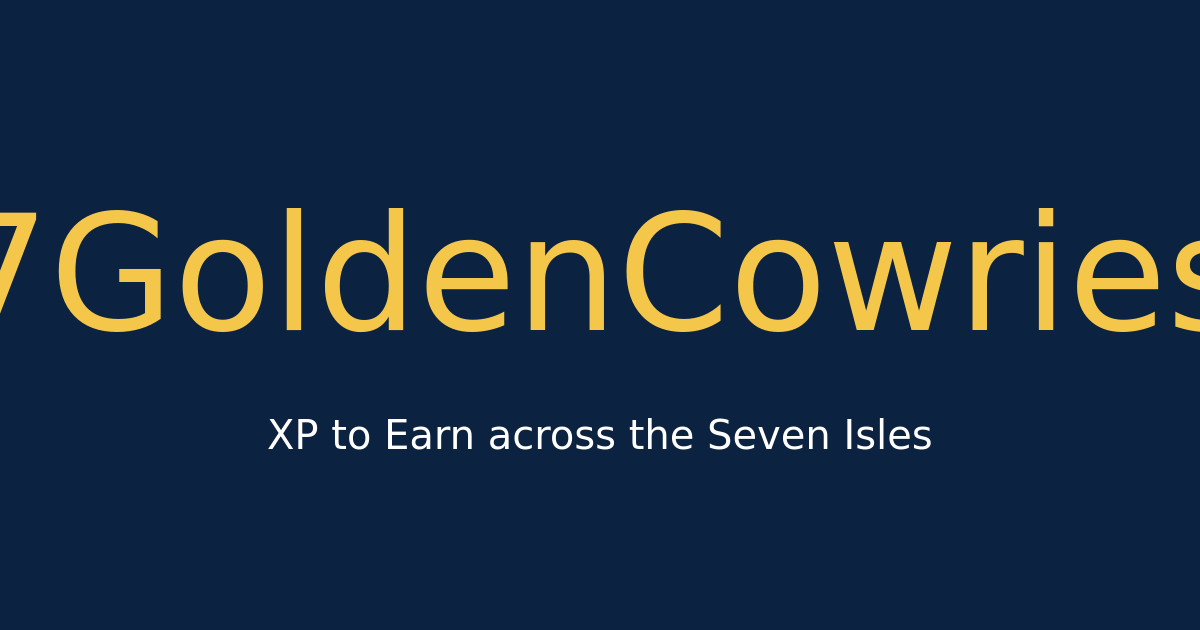
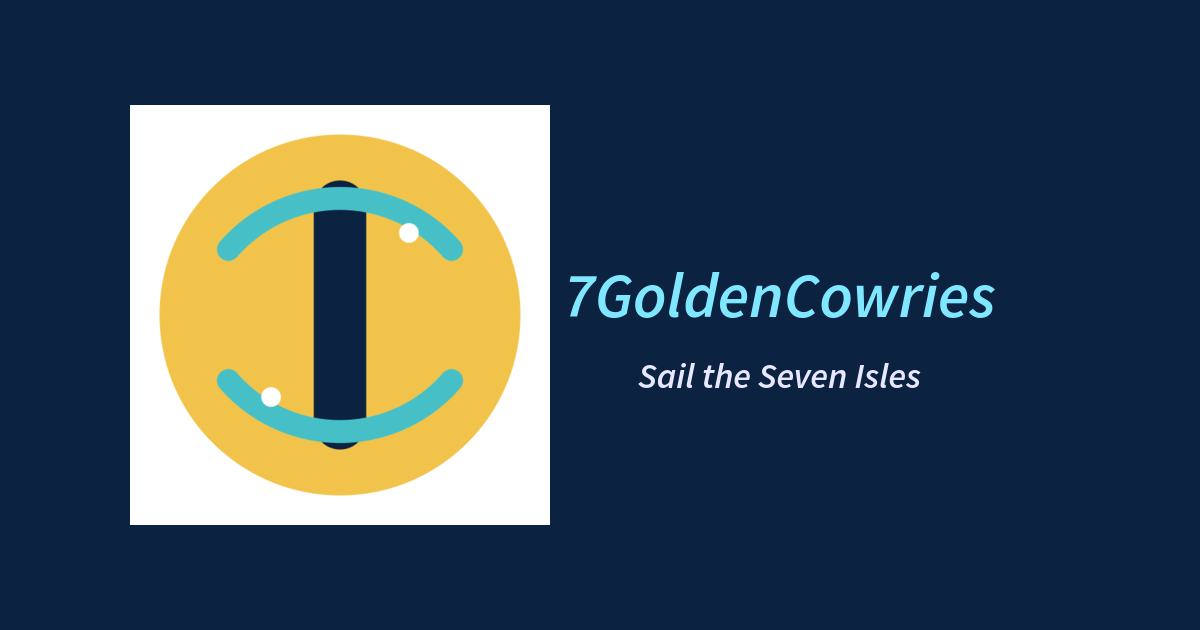
seo: www→apex redirect; Plausible analytics; real OpenGraph image

Changed region(s): [[0.0, 0.1508, 1.0, 0.8444], [0.5242, 0.573, 0.7708, 0.6333]]

diff --git a/next.config.js b/next.config.js
@@ -1,21 +1,43 @@
 /** @type {import('next').NextConfig} */
-const API_BASE = process.env.NEXT_PUBLIC_API_BASE_URL || 'https://sevengoldencowries-backend.onrender.com';
+const API_BASE =
+  process.env.NEXT_PUBLIC_API_BASE_URL ||
+  'https://sevengoldencowries-backend.onrender.com';
+
 module.exports = {
   reactStrictMode: false,
   eslint: { ignoreDuringBuilds: true },
+
+  // Proxy your API to the backend
   async rewrites() {
     return [{ source: '/api/:path*', destination: `${API_BASE}/api/:path*` }];
   },
+
+  // 👇 Send all www traffic to apex
+  async redirects() {
+    return [
+      {
+        source: '/:path*',
+        has: [{ type: 'host', value: 'www.7goldencowries.com' }],
+        destination: 'https://7goldencowries.com/:path*',
+        permanent: true,
+      },
+    ];
+  },
+
+  // Security + long cache for images/icons
   async headers() {
     const security = [
       { key: 'Referrer-Policy', value: 'strict-origin-when-cross-origin' },
       { key: 'X-Content-Type-Options', value: 'nosniff' },
       { key: 'X-Frame-Options', value: 'SAMEORIGIN' },
-      { key: 'Permissions-Policy', value: 'camera=(), microphone=(), geolocation=()' }
+      { key: 'Permissions-Policy', value: 'camera=(), microphone=(), geolocation=()' },
     ];
     return [
       { source: '/(.*)', headers: security },
-      { source: '/:all*(svg|png|jpg|jpeg|ico|gif|webp)', headers: [{ key: 'Cache-Control', value: 'public, max-age=31536000, immutable' }] }
+      {
+        source: '/:all*(svg|png|jpg|jpeg|ico|gif|webp)',
+        headers: [{ key: 'Cache-Control', value: 'public, max-age=31536000, immutable' }],
+      },
     ];
   },
 };
